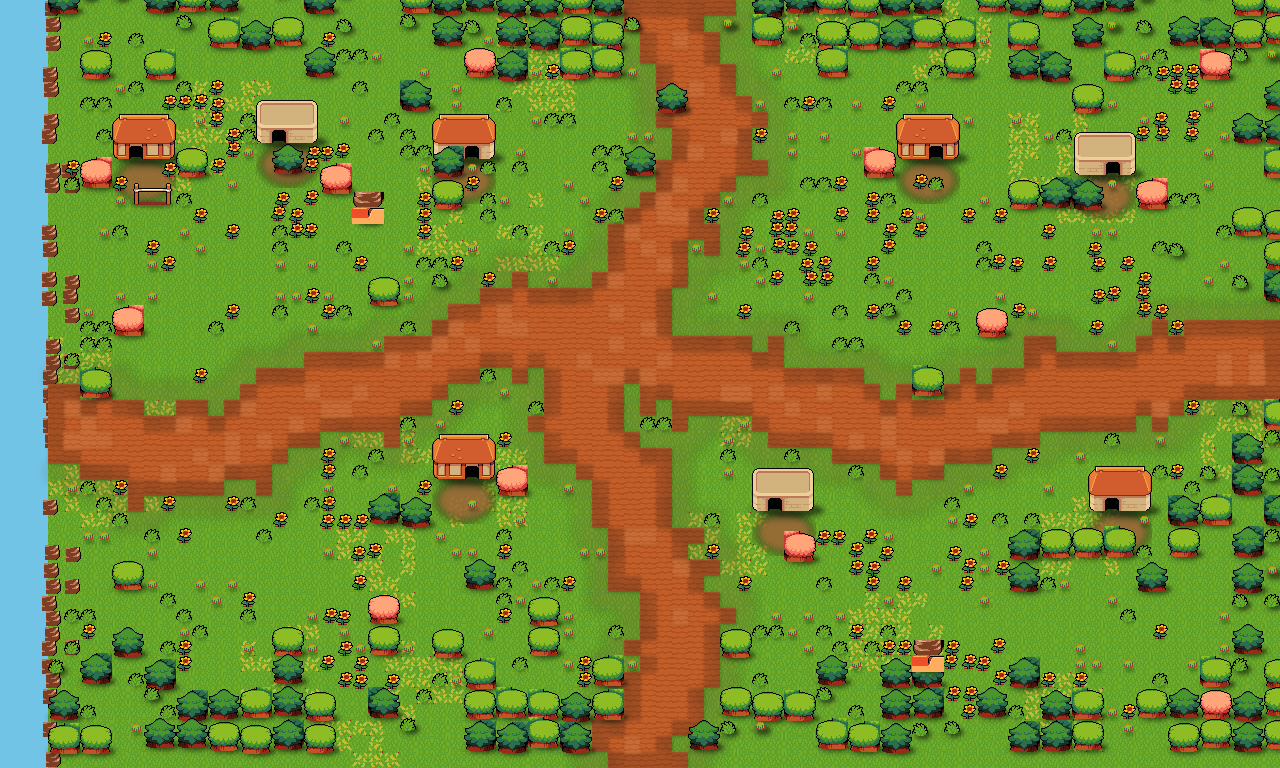
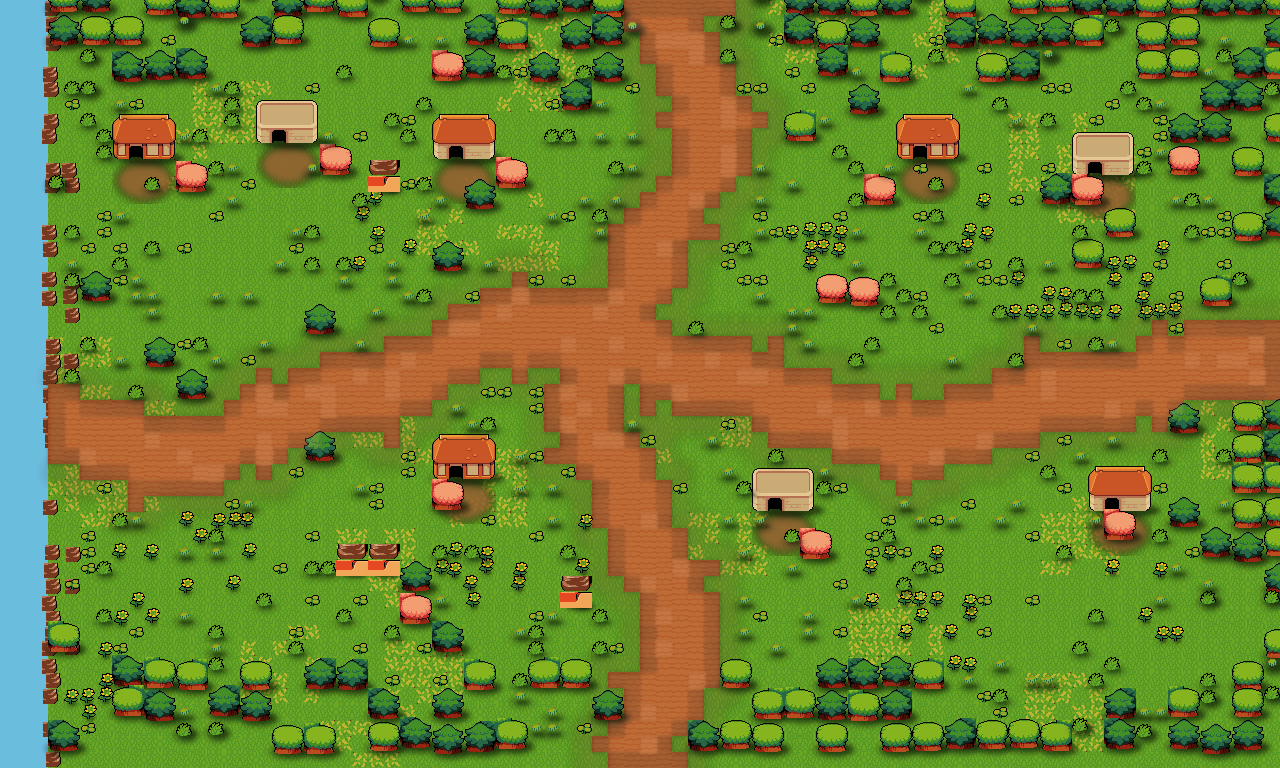
Fix every artifact visible in the zoomed-in screenshot review
Five concrete bugs the user spotted in the web app capture, each
traced to its actual cause in the village compositor:

1. Bushes/sunflowers/grass-tufts showed a red-brown rectangle around
   their base. Cause: those single-tile sprites in Sparklin's pack
   were drawn for a dirt background, so a 2-row 'soil ring' is
   baked in. Added _strip_dirt_base() that makes red-dominant pixels
   transparent on those four sprites.
2. Cherry trees got h-flipped, mirroring the visible trunk to the
   wrong side. Fixed: place_object now takes hflip explicitly;
   pick_forest_obj returns hflip=False for cherry trees + bushes,
   True only for symmetric round trees.
3. Houses were also h-flipped, which mirrored chimneys/door
   positions/window styles. Removed the flip — houses are asymmetric
   in this pack.
4. Tree canopies clipped into house walls. Tightened the house
   exclusion in place_object — every tree's full bounding box must
   clear every house by 8px.
5. A single fence segment floated in random grass near each house,
   reading as a misplaced piece of wood. Removed fence placement
   entirely until we have a proper yard/gate composition.

Path color was also too saturated red-orange. Reduced post-process
saturation, kept a mild contrast bump, and added a soft sandy-tint
alpha overlay across path cells so the dirt reads as walked-on
sand instead of clay.

Web image path also got a ?v=2 cache-buster so reloads pick up the
new village_background.png immediately.

diff --git a/web/src/components/Village.tsx b/web/src/components/Village.tsx
@@ -134,9 +134,9 @@ export function Village({ minZoom = 1.4 }: { minZoom?: number }) {
         }}
       >
         {/* Background image. Drop a higher-quality image at
-            public/village_background.png to replace the placeholder. */}
+            public/village_background.png?v=2 to replace the placeholder. */}
         <img
-          src="/village_background.png"
+          src="/village_background.png?v=2"
           alt=""
           className="absolute inset-0 w-full h-full select-none pointer-events-none"
           style={{

diff --git a/tools/build_village.py b/tools/build_village.py
@@ -68,10 +68,29 @@ MID_FILLERS = []  # populated after BUSH_BIG is defined (see below)
 CHERRY_BIG = chunk(4, 16, 2, 2)
 CHERRY_SM  = chunk(8, 16, 2, 2)
 
-BUSH_SM    = tile(3, 13)
-BUSH_BIG   = tile(9, 15)
-GRASS_TUFT = tile(4, 15)
-SUNFLOWER  = tile(3, 15)
+def _strip_dirt_base(img: Image.Image) -> Image.Image:
+    """Make the red-brown 'dirt soil' pixels around a plant transparent.
+    These single-tile sprites were drawn for dirt backgrounds, so a
+    rusty soil ring is baked into the bottom 2-3 rows. On grass that
+    ring reads as a misplaced tiny brown rectangle — we drop it here."""
+    out = img.copy().convert("RGBA")
+    px = out.load()
+    w, h = out.size
+    for y in range(h):
+        for x in range(w):
+            r, g, b, a = px[x, y]
+            if a == 0:
+                continue
+            # Red-brown dirt: red dominant, low green & blue
+            if r > 110 and g < 100 and b < 90 and (r - g) > 35:
+                px[x, y] = (0, 0, 0, 0)
+    return out
+
+
+BUSH_SM    = _strip_dirt_base(tile(3, 13))
+BUSH_BIG   = tile(9, 15)              # already clean — no soil base
+GRASS_TUFT = _strip_dirt_base(tile(4, 15))
+SUNFLOWER  = _strip_dirt_base(tile(3, 15))
 STONE_BIG  = chunk(14, 11, 2, 2)
 STONE_SM   = tile(13, 11)
 FENCE_H    = chunk(5, 4, 3, 2)       # horizontal fence segment
@@ -256,17 +275,9 @@ def main() -> None:
                     return True
         return False
 
-    # Foot-traffic wear: scatter dirt patches just off the path edges
-    edge_cells = []
-    for (tx, ty) in path_cells:
-        for ddy, ddx in [(-1, 0), (1, 0), (0, -1), (0, 1)]:
-            ncell = (tx + ddx, ty + ddy)
-            if ncell not in path_cells:
-                edge_cells.append(ncell)
-    for (tx, ty) in edge_cells:
-        if 3 <= tx < cols and 0 <= ty < rows and random.random() < 0.10:
-            bg.paste(random_flip(dirt), (tx * TILE, ty * TILE))
-            path_cells.add((tx, ty))
+    # Foot-traffic wear DISABLED — was creating isolated brown blobs far
+    # from the main path. Path is now strictly the planned strip + edge
+    # feathering for the soft boundary.
 
     # Path tonal shading — darker edges, occasional bright center
     darken_path_edges(bg, path_cells)
@@ -316,7 +327,9 @@ def main() -> None:
         darken_grass_patch(bg, ao_cx + 2, ao_cy, img.size[0] // 2 + 6, 10)
         # drop shadow (offset right for sun from upper-left)
         draw_shadow(bg, ao_cx + 6, ao_cy, img.size[0] // 2, 6, alpha=120, blur=2.0)
-        stamp(bg, random_hflip(img), px, py)
+        # Do NOT h-flip houses — they have asymmetric details (chimneys,
+        # door positions, window styles) that look wrong mirrored.
+        stamp(bg, img, px, py)
         house_rects.append((px, py, img.size[0], img.size[1]))
         for ddy in range(img.size[1] // TILE):
             for ddx in range(img.size[0] // TILE):
@@ -331,13 +344,21 @@ def main() -> None:
     # 5) Forest — varied sizes (big tree / mid bush / cherry), per-object
     # y-jitter so they don't stack into a perfect grid row.
     def place_object(tx: int, ty: int, obj_img: Image.Image,
-                     y_jitter: int = 3) -> bool:
+                     y_jitter: int = 3,
+                     hflip: bool = False) -> bool:
         cw = obj_img.size[0] // TILE
         ch = obj_img.size[1] // TILE
         if on_path(tx, ty) or near_path(tx, ty, dist=0):
             return False
-        if overlaps_house(tx * TILE, ty * TILE, obj_img.size[0], obj_img.size[1]):
-            return False
+        # Stricter house exclusion — entire tree bounding box must be clear
+        # of any house, with 8px safety margin so tree canopies don't
+        # overlap house walls.
+        for (hx, hy, hw, hh) in house_rects:
+            if (tx * TILE + obj_img.size[0] > hx - 8 and
+                tx * TILE < hx + hw + 8 and
+                ty * TILE + obj_img.size[1] > hy - 8 and
+                ty * TILE < hy + hh + 8):
+                return False
         for ddy in range(ch):
             for ddx in range(cw):
                 if (tx + ddx, ty + ddy) in occupied:
@@ -348,23 +369,29 @@ def main() -> None:
         py = ty * TILE - TILE + jy
         trunk_x = px + obj_img.size[0] // 2
         trunk_y = py + obj_img.size[1] - 4
+        # AO patch is FATTER than the tree base so the brown trunk pixels
+        # always sit on a darkened grass disc, not on raw bright grass.
         darken_grass_patch(bg, trunk_x + 1, trunk_y,
-                           obj_img.size[0] // 2 + 2, 6)
+                           obj_img.size[0] // 2 + 4, 8, alpha=85)
         draw_shadow(bg, trunk_x + 3, trunk_y,
-                    obj_img.size[0] // 2 - 1, 4, alpha=110, blur=1.8)
-        stamp(bg, random_hflip(obj_img), px, py)
+                    obj_img.size[0] // 2 + 1, 5, alpha=130, blur=2.5)
+        stamped = obj_img.transpose(Image.FLIP_LEFT_RIGHT) if hflip else obj_img
+        stamp(bg, stamped, px, py)
         for ddy in range(ch + 1):
             for ddx in range(cw):
                 occupied.add((tx + ddx, ty + ddy - 1))
         return True
 
-    def pick_forest_obj(depth: int, allow_cherry: bool) -> Image.Image:
+    def pick_forest_obj(depth: int, allow_cherry: bool):
+        """Return (img, hflip_ok). Cherry trees have a visible trunk on
+        one side — flipping them mirrors the trunk wrong. Round trees are
+        symmetric enough to flip safely."""
         r = random.random()
-        if allow_cherry and r < 0.10:
-            return CHERRY_BIG if r < 0.05 else CHERRY_SM
+        if allow_cherry and r < 0.08:
+            return (CHERRY_BIG if r < 0.04 else CHERRY_SM, False)
         if r < 0.18:
-            return random.choice(MID_FILLERS)
-        return random.choice(TREES_BIG)
+            return (random.choice(MID_FILLERS), False)
+        return (random.choice(TREES_BIG), random.random() < 0.5)
 
     # Outer ring — smooth probability falloff instead of cliff at depth=5
     for ty in range(0, rows, 2):
@@ -373,16 +400,16 @@ def main() -> None:
             # density: 0.92 at edge, fading to 0.05 by depth 8
             density = max(0.05, 0.92 - depth * 0.115)
             if random.random() < density:
-                obj = pick_forest_obj(depth, allow_cherry=(depth >= 3))
-                place_object(tx, ty, obj)
+                obj, hflip = pick_forest_obj(depth, allow_cherry=(depth >= 3))
+                place_object(tx, ty, obj, hflip=hflip)
 
-    # A few cherry accents inside the village
+    # A few cherry accents inside the village (no flip — trunk visible)
     for (hx, hy, hw, hh) in house_rects:
-        for _ in range(2):
+        for _ in range(3):
             tx = (hx // TILE) + random.randint(-2, 4)
             ty = (hy // TILE) + random.randint(3, 5)
             if 4 <= tx < cols - 3 and 2 <= ty < rows - 3:
-                if place_object(tx, ty, CHERRY_SM):
+                if place_object(tx, ty, CHERRY_SM, hflip=False):
                     break
 
     # 6a) Flower beds — pick a dozen cluster centers in open grass and
@@ -412,7 +439,10 @@ def main() -> None:
                     continue
                 px = ftx * TILE + random.randint(-2, 2)
                 py = fty * TILE + random.randint(-2, 2)
-                draw_shadow(bg, px + TILE // 2, py + TILE - 3, 3, 2, alpha=45)
+                darken_grass_patch(bg, px + TILE // 2, py + TILE - 2,
+                                   5, 3, alpha=70)
+                draw_shadow(bg, px + TILE // 2 + 1, py + TILE - 2,
+                            4, 2, alpha=70, blur=1.0)
                 stamp(bg, SUNFLOWER, px, py)
                 occupied.add((ftx, fty))
                 planted += 1
@@ -431,17 +461,18 @@ def main() -> None:
             if overlaps_house(px, py):
                 continue
             roll = random.random()
-            if roll < 0.16:
-                draw_shadow(bg, px + TILE // 2 + 1, py + TILE - 3, 5, 2, alpha=60)
-                stamp(bg, BUSH_BIG if random.random() < 0.5 else BUSH_SM, px, py)
+            if roll < 0.12:
+                # Generous AO under bush so its brown base reads as
+                # "in shade of plant", not as a misplaced dirt tile.
+                darken_grass_patch(bg, px + TILE // 2 + 1, py + TILE - 2,
+                                   TILE // 2 + 3, 5, alpha=80)
+                draw_shadow(bg, px + TILE // 2 + 2, py + TILE - 2,
+                            7, 2, alpha=90, blur=1.4)
+                stamp(bg, BUSH_BIG if random.random() < 0.5 else BUSH_SM,
+                      px, py)
                 occupied.add((tx, ty))
                 decor += 1
-            elif roll < 0.20:
-                draw_shadow(bg, px + TILE // 2 + 1, py + TILE - 3, 4, 2, alpha=55)
-                stamp(bg, SUNFLOWER, px, py)
-                occupied.add((tx, ty))
-                decor += 1
-            elif roll < 0.10:
+            elif roll < 0.18:
                 stamp(bg, GRASS_TUFT, px, py)
 
     # 7) Scattered boulders in clearings (1-2 per quadrant)
@@ -461,24 +492,27 @@ def main() -> None:
             for ddx in range(2):
                 occupied.add((tx + ddx, ty + ddy))
 
-    # 8) Horizontal fence runs along some house frontages (between house and path)
-    for (hx, hy, hw, hh) in house_rects[:4]:
-        # Try to place a 3-wide fence in front of the house, between house and
-        # the nearest path tile, only if there's clear grass space.
-        ftx = hx // TILE + 1            # slight indent from house left
-        fty = hy // TILE + (hh // TILE) + 1
-        if 3 <= ftx < cols - 3 and 0 <= fty < rows:
-            blocked = False
-            for dx in range(3):
-                if (ftx + dx, fty) in path_cells or (ftx + dx, fty) in occupied:
-                    blocked = True
-                    break
-            if not blocked:
-                draw_shadow(bg, ftx * TILE + 24, fty * TILE + 28, 22, 3, alpha=80)
-                stamp(bg, FENCE_H, ftx * TILE, fty * TILE)
-                for dx in range(3):
-                    for dy in range(2):
-                        occupied.add((ftx + dx, fty + dy))
+    # 8) Fences disabled — isolated single fence segments next to houses
+    # read as random floating wood structures, not yards. Re-enable only
+    # when paired with shrubbery + a gate to form a real boundary.
+
+    # Final touch — very mild contrast bump; saturation left alone so the
+    # red-brown dirt path doesn't blow out to orange.
+    from PIL import ImageEnhance
+    bg = ImageEnhance.Contrast(bg).enhance(1.04)
+    bg = ImageEnhance.Brightness(bg).enhance(0.95)
+
+    # Apply a soft sandy tint over the path cells so they read as sandy
+    # walking dirt, not lava-orange clay.
+    overlay = Image.new("RGBA", bg.size, (0, 0, 0, 0))
+    od = ImageDraw.Draw(overlay)
+    for (tx, ty) in path_cells:
+        od.rectangle(
+            [tx * TILE, ty * TILE, tx * TILE + TILE, ty * TILE + TILE],
+            fill=(220, 195, 140, 45),
+        )
+    overlay = overlay.filter(ImageFilter.GaussianBlur(radius=2.0))
+    bg.alpha_composite(overlay)
 
     bg.save(OUT_PATH)
     print(f"wrote {OUT_PATH}  size={bg.size}  decor={decor}")
